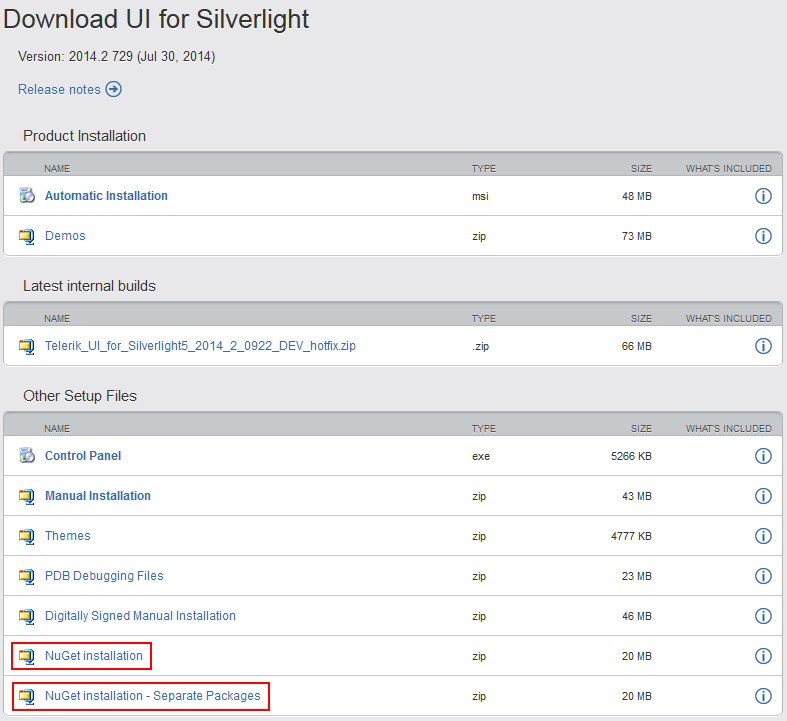
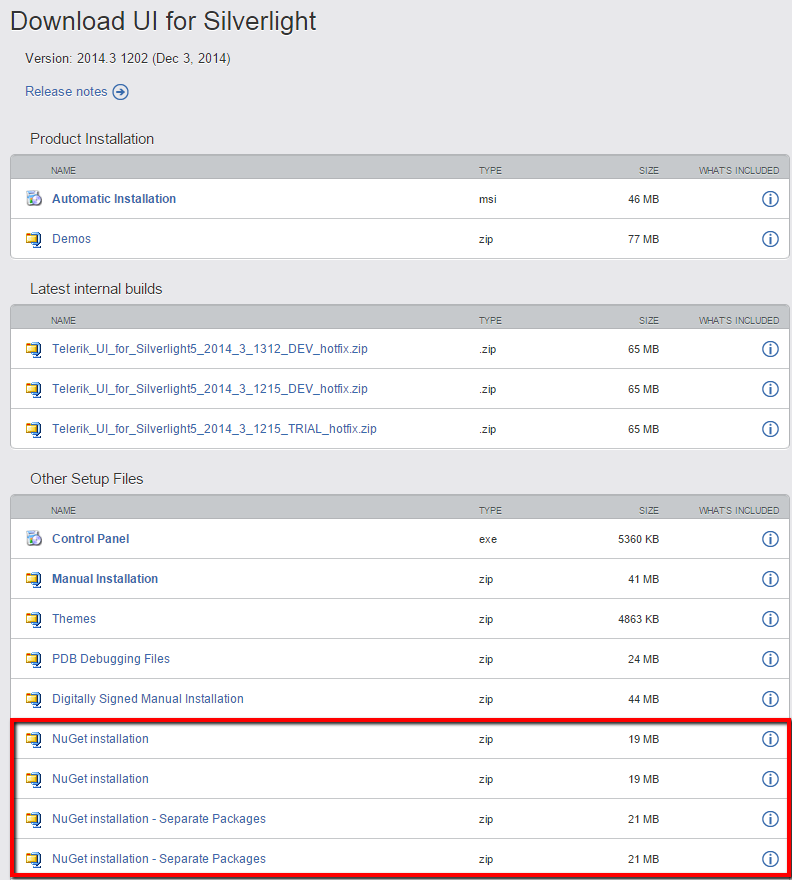
Update NuGet Installation article

Changed region(s): [[0.0, 0.0, 1.0, 1.0]]

diff --git a/installation-and-deployment/installing-telerik-ui-on-your-computer/installation-installing-from-nuget.md b/installation-and-deployment/installing-telerik-ui-on-your-computer/installation-installing-from-nuget.md
@@ -15,7 +15,7 @@ The following topic describes what steps you should perform in order to install 
    
 We’re providing a common NuGet package containing all the assemblies from the UI for Silverlight suite as well as separate packages for the different assemblies. It is up to you to decide which one is more suitable to your project. 
 
->importantThe provided NuGet packages include only __NoXaml binaries__. Check the [Setting a Theme (Using  Implicit Styles)]({%slug styling-apperance-implicit-styles-overview%}) help topic for more details on the NoXaml binaries and Implicit Styles.
+>importantThe provided NuGet packages contain either __NoXaml binaries__ or __XAML binaries__. Check the [Setting a Theme (Using  Implicit Styles)]({%slug styling-apperance-implicit-styles-overview%}) help topic for more details on the NoXaml binaries and Implicit Styles.
  
 We will go through the following sections: 
 
@@ -31,19 +31,21 @@ In order to download the latest NuGet packages, follow the instructions below:
           
 * Click __Products & Subscriptions__ and then select UI for Silverlight from the dropdown (or Trial downloads if you are a trial user).
           
-![Common Installing FromMSIFiles 005](images/Common_InstallingFromMSIFiles_005.png)
+	![Common Installing FromMSIFiles 005](images/Common_InstallingFromMSIFiles_005.png)
 
->If you've purchased Telerik DevCraft Complete/Ultimate bundle, you will see it in the Products & Subscriptions dropdown.
->![Common Installing FromMSIFiles 005 Ultimate](images/Common_InstallingFromMSIFiles_005_Ultimate.png)
+	>If you've purchased Telerik DevCraft Complete/Ultimate bundle, you will see it in the Products & Subscriptions dropdown.
+	>![Common Installing FromMSIFiles 005 Ultimate](images/Common_InstallingFromMSIFiles_005_Ultimate.png)
 
 * Click "Download Installer and other resources" button.
-![Common Installing Download Button](images/Common_Installing_Download_Button.png)
 
->Again, if you've purchased Telerik DevCraft Complete/Ultimate bundle, you will be redirected to a page with all the products in the suite.
->Scroll to "UI for Silverlight" product. Click "Browse all product files" to go to the detailed download page.
->![Common Installing FromMSIFiles 009](images/Common_InstallingFromMSIFiles_009.png)
+	![Common Installing Download Button](images/Common_Installing_Download_Button.png)
+	
+	>Again, if you've purchased Telerik DevCraft Complete/Ultimate bundle, you will be redirected to a page with all the products in the suite.
+	>Scroll to "UI for Silverlight" product. Click "Browse all product files" to go to the detailed download page.
+	>![Common Installing FromMSIFiles 009](images/Common_InstallingFromMSIFiles_009.png)
 
-* Click either “NuGet installation” or “NuGet installation – Separate Packages”.![Common Installing From Nu Get 01](images/Common_InstallingFromNuGet_01.png)
+* Click either “NuGet installation” or “NuGet installation – Separate Packages”. 
+	![Common Installing From Nu Get 01](images/Common_InstallingFromNuGet_01.png)
 
 * Download the .zip file and extract it into the folder where your Telerik NuGet packages are located.
 

diff --git a/installation-and-deployment/installing-telerik-ui-on-your-computer/installation-installing-from-nuget-wpf.md b/installation-and-deployment/installing-telerik-ui-on-your-computer/installation-installing-from-nuget-wpf.md
@@ -15,7 +15,7 @@ The following topic describes what steps you should perform in order to install 
       
 We’re providing a common NuGet package containing all the assemblies from the UI for WPF suite as well as separate packages for the different assemblies. It is up to you to decide which one is more suitable to your project. 
 
->importantThe provided NuGet packages include only __NoXaml binaries__. Check the [Setting a Theme (Using  Implicit Styles)]({%slug styling-apperance-implicit-styles-overview%}) help topic for more details on the NoXaml binaries and Implicit Styles.
+>importantThe provided NuGet packages contain either __NoXaml binaries__ or __XAML binaries__. Check the [Setting a Theme (Using  Implicit Styles)]({%slug styling-apperance-implicit-styles-overview%}) help topic for more details on the NoXaml binaries and Implicit Styles.
         
 We will go through the following sections: 
 

diff --git a/controls/radrichtextbox/frequently-asked-questions.md b/controls/radrichtextbox/frequently-asked-questions.md
@@ -27,9 +27,10 @@ This topic aims to answer some of the frequently asked questions about the use o
 ## Assembly References
 
 In order to use __RadRichTextBox__ in your project, you need to add a reference to the __Telerik.Windows.Controls__, __Telerik.Windows.Data__, __Telerik.Windows.Documents__, __Telerik.Windows.Documents.Core__, __Telerik.Windows.Documents.Flow__ and __System.ComponentModel.Composition__ assemblies.
-        
 
-You can find more info[here]({%slug installation-installing-controls-dependencies%}).
+{% if site.site_name == 'Silverlight' %}You can find more info[here]({%slug installation-installing-controls-dependencies%}).{% endif %}
+
+{% if site.site_name == 'WPF' %}You can find more info[here]({%slug installation-installing-controls-dependencies-wpf%}).{% endif %}
         
 
 ## Setting Default Style Settings on the Document
